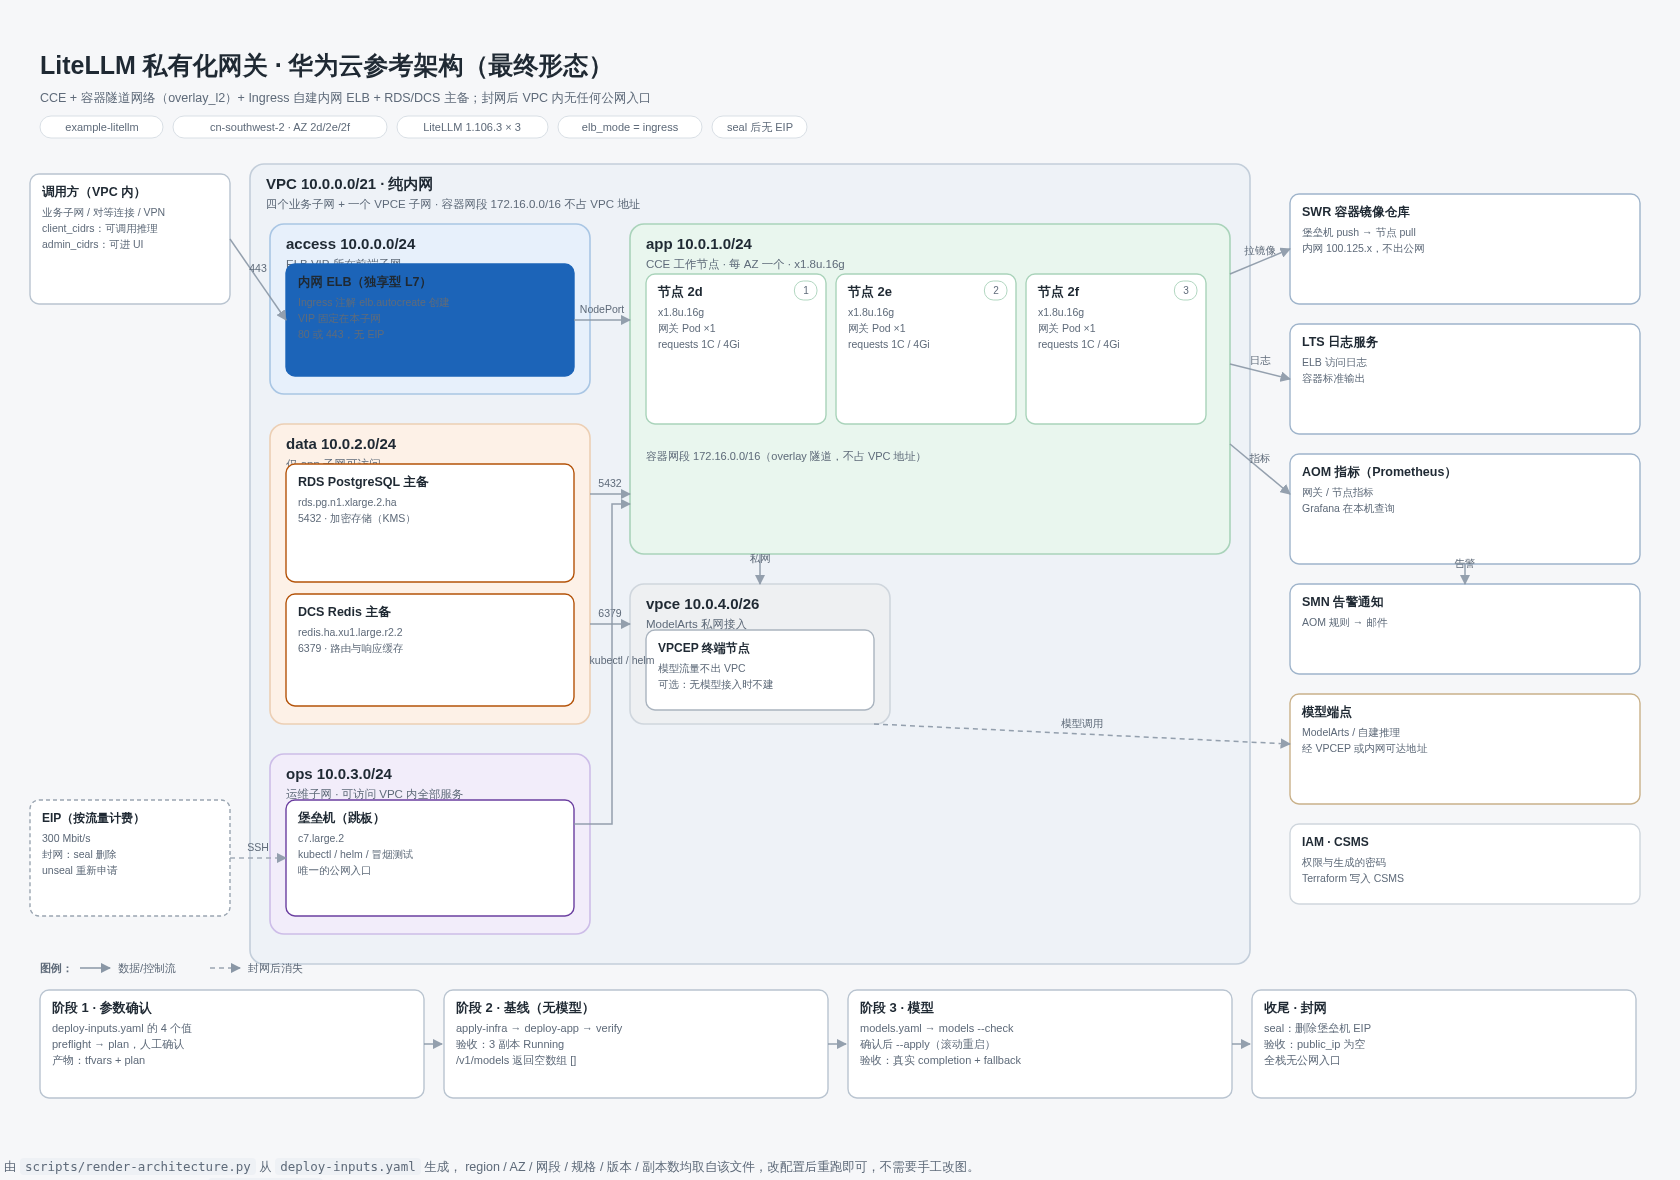
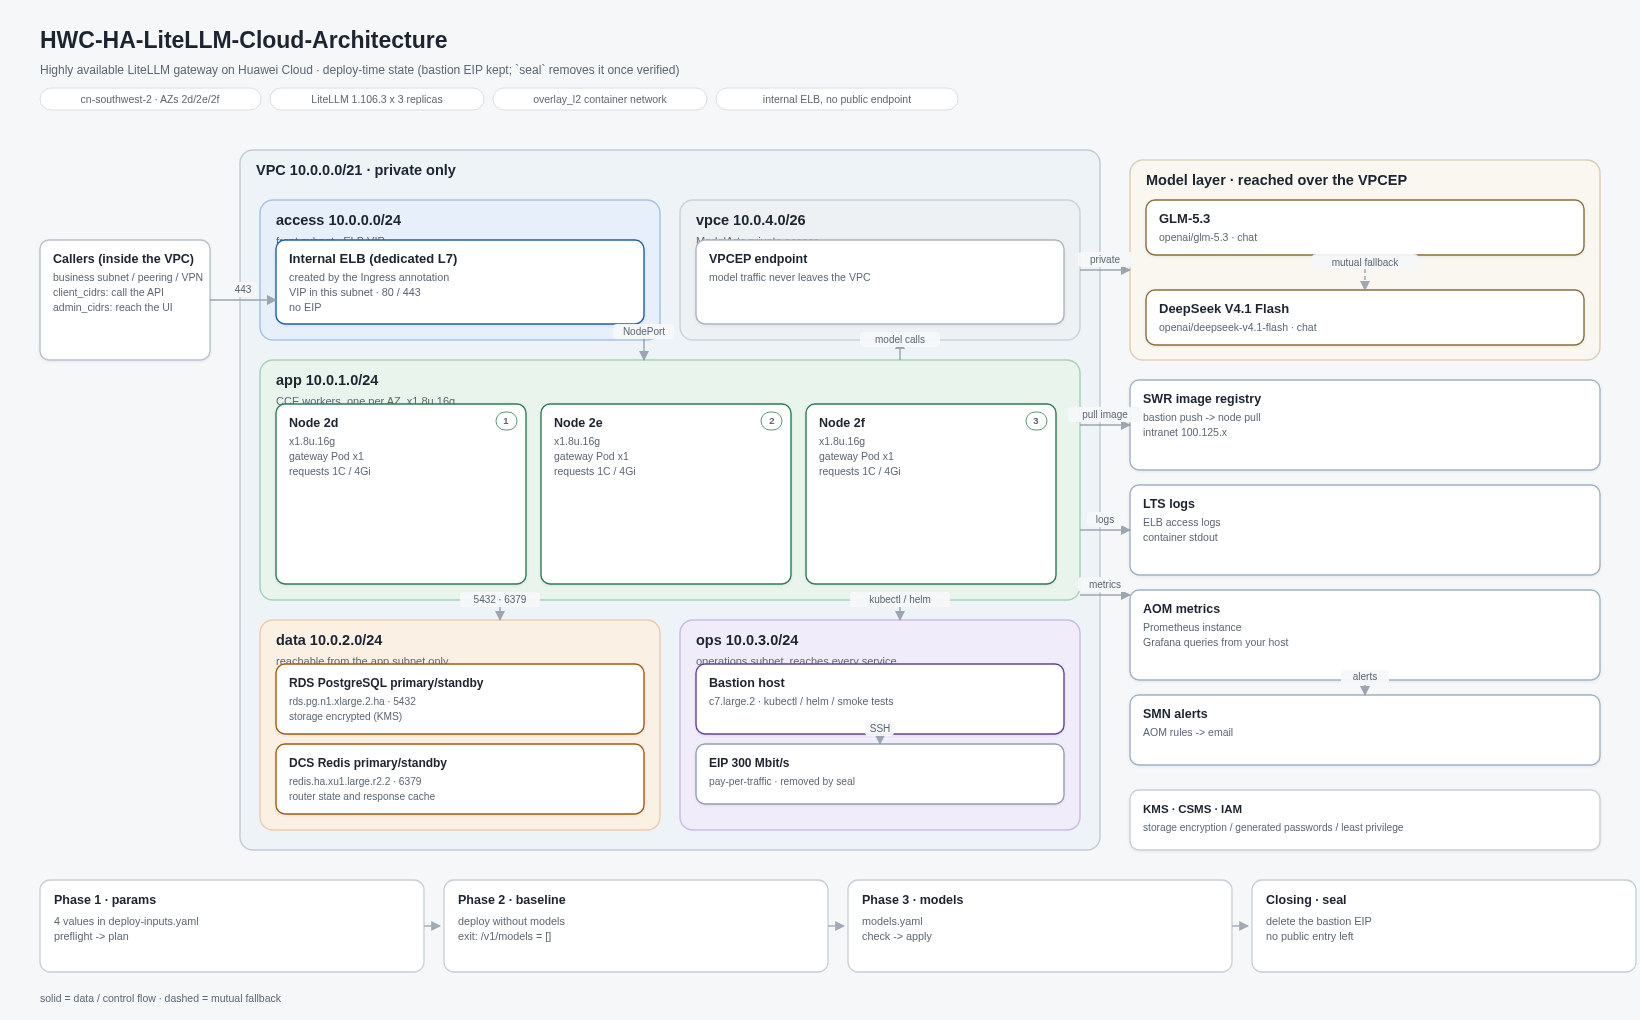
docs: redraw the architecture (en + zh + drawio) and audit every tracked file
Diagram, rebuilt for the final topology and the feedback:

- brand in the header: HWC-HA-LiteLLM-Cloud-Architecture
- deploy-time state: the bastion EIP is solid, with `seal` named as the step that
  removes it (was drawn already-sealed)
- the model layer is explicit: GLM-5.3 and DeepSeek V4.1 Flash with a dashed
  double arrow labelled "mutual fallback", reached through the VPCEP
- English `docs/architecture.png` for README.md, Chinese
  `docs/architecture.zh-CN.png` for README.zh-CN.md, and `docs/architecture.drawio`
  as the editable source (verified by exporting it with the drawio CLI)
- arrows only run in gutters; the generator asserts that no sibling boxes overlap
  and that every child sits inside its group before writing anything

`docs/repository-map.md` audits all 145 tracked files: what each one is, who calls
it, and what was removed (the old architecture.html, its generator, and pycache).
Verification is reproducible: 10/10 Terraform modules are referenced by an
example, `helm template` emits every kind the chart claims, and every script has a
caller outside the docs index.

`check-docs.py` now exempts `.zh-CN.` paths from the README parity rule: the
English README links the English diagram and the Chinese one links the Chinese
diagram, which is the intent, not a gap.

diff --git a/scripts/check-docs.py b/scripts/check-docs.py
@@ -149,8 +149,13 @@ def main() -> int:
 
     # The two READMEs must point at the same set of files, or one of them rots.
     if len(link_sets) == 2:
-        only_en = link_sets["README.md"] - link_sets["README.zh-CN.md"]
-        only_zh = link_sets["README.zh-CN.md"] - link_sets["README.md"]
+        # Language variants are expected to differ: README.md links the English
+        # diagram, README.zh-CN.md the Chinese one. Everything else must match.
+        def same_in_both(target: str) -> bool:
+            return not any(marker in target for marker in (".zh-CN.", "-zh-CN.", "_zh-CN."))
+
+        only_en = {t for t in link_sets["README.md"] - link_sets["README.zh-CN.md"] if same_in_both(t)}
+        only_zh = {t for t in link_sets["README.zh-CN.md"] - link_sets["README.md"] if same_in_both(t)}
         for target in sorted(only_en):
             errors.append(f"README.zh-CN.md: missing link to {target} (present in README.md)")
         for target in sorted(only_zh):

diff --git a/docs/repository-map.md b/docs/repository-map.md
@@ -1,0 +1,165 @@
+# Repository map — every file, and who uses it
+
+145 tracked files. Each row below answers "what is this for" and "what reads it".
+Two things were deleted during the audit (`docs/architecture.html` and its
+generator); everything else has a caller. Generated files are listed separately
+because they must never be committed.
+
+## Top level
+
+| File | What it is | Who uses it |
+|---|---|---|
+| `deploy-inputs.yaml` | Phases 1–2: infrastructure and gateway baseline. The only file an operator edits. | `preflight.py` (reads), `fill-inputs.sh` (writes 4 values), `inputs-table.py` (renders a table) |
+| `models.yaml` | Phase 3: the model list and fallback policy. | `preflight.py --with-models`, `models-diff.py`, `deploy.sh models` |
+| `version-presets.yaml` | The validated LiteLLM version, plus the upgrade gate boundaries. | `preflight.py` (`check_version`), `docs/upgrade-procedure.md` |
+| `AGENTS.md` | What an automated agent may and may not do. | every agent session; referenced by the skill |
+| `Makefile` | Thin wrapper over `deploy.sh` and the linters. | humans, CI |
+| `README.md` / `README.zh-CN.md` | Entry point, with the architecture image at the top. | humans, GitHub |
+| `CHANGELOG.md` | Why each release changed. | humans |
+| `CONTRIBUTING.md` | How to change the repo without breaking the deploy path. | contributors |
+| `SECURITY.md` | How to report a vulnerability. | contributors |
+| `LICENSE` | Apache-2.0. | GitHub |
+| `.gitignore` | Keeps state, tfvars, plans, venvs and the runtime home out of git. | git |
+| `.gitattributes` | Forces LF so a Windows checkout cannot break `#!/usr/bin/env bash`. | git |
+| `.editorconfig` | Indentation and final-newline rules. | editors |
+| `.pre-commit-config.yaml` | Runs `make lint` before a commit. | contributors |
+| `.terraform-version` | 1.17.0, the version CI and the docs assume. | tfenv users, CI |
+
+## `terraform/` — infrastructure
+
+Ten modules, all used by at least one example; nothing here is decorative.
+
+| Module | What it creates | Used by |
+|---|---|---|
+| `modules/maas-network` | VPC, five subnets, security groups, the bastion's egress rules | `examples/cce-ha` |
+| `modules/cce` | Cluster plus one node pool per AZ, GPSSD2 volumes | `examples/cce-ha` |
+| `modules/postgres` | RDS PostgreSQL primary/standby, KMS-encrypted | `examples/cce-ha` |
+| `modules/redis` | DCS Redis primary/standby | `examples/cce-ha` |
+| `modules/elb` | A Terraform-owned ELB (`elb_mode = standalone` only) | `examples/cce-ha` |
+| `modules/bastion` | The jump host, its EIP (optional) and the bootstrap script | `examples/cce-ha` |
+| `modules/observability` | LTS log group, AOM Prometheus instance, alarm rules | `examples/cce-ha` |
+| `modules/vpcep` | ModelArts private endpoint | `examples/cce-ha` |
+| `modules/vpn` | VPN gateway for on-prem callers (`vpn_enabled`) | `examples/cce-ha` |
+| `modules/naming` | `<project>-maas-<component>` name and tag convention | all of the above |
+
+| Example | What it is | Used by |
+|---|---|---|
+| `examples/cce-ha` | The production stack. Everything in the docs refers to this. | `deploy.sh`, `destroy.sh`, CI |
+| `examples/vm-single` | One ECS with local PostgreSQL/Redis, for evaluation only. | README (lab tier) |
+| `examples/*/terraform.tfvars.example` | Shape of the generated tfvars; `preflight` writes the real file. | humans (reading), `preflight` (not read) |
+| `examples/*/versions.tf`, `.terraform.lock.hcl` | Provider pinning. | `terraform init` |
+| `examples/cce-ha/backend.tf.example` | Remote state config to copy when you use OBS. | `docs/deployment.md` |
+
+## `charts/litellm/` — the application
+
+| File | What it renders | Notes |
+|---|---|---|
+| `templates/configmap.yaml` | The single LiteLLM config document: `model_list`, router, cache, general settings | `store_model_in_db: false`; empty model list renders `[]` |
+| `templates/deployment.yaml` | Gateway pods, probes, `preStop`, checksum annotation | rolls when the config changes |
+| `templates/migration-job.yaml` | Prisma migrations as a pre-install/pre-upgrade hook | tables are never created by hand |
+| `templates/service.yaml` | ClusterIP (ingress mode) or LoadBalancer (standalone) | |
+| `templates/ingress.yaml` | The `elb.autocreate` annotation that makes the internal ELB | immutable; `ingress-apply.sh` converges it |
+| `templates/pdb.yaml` | PodDisruptionBudget, keeps 2 of 3 replicas during drains | |
+| `templates/hpa.yaml` | Optional HPA, off by default (`autoscaling.enabled`) | not rendered in the default profile |
+| `templates/serviceaccount.yaml`, `_helpers.tpl`, `NOTES.txt` | Standard chart plumbing | |
+| `values.yaml` | Every knob, with the reasoning inline | read by `render-helm-values.py` |
+
+## `scripts/` — the deployment engine
+
+| Script | What it does | Called by |
+|---|---|---|
+| `deploy.sh` | The stage switch: preflight, plan, apply-infra, apply-stream, deploy-app, verify, ingress, verify-ui, models, seal, unseal | humans, CI, the skill |
+| `lib.sh` | Shared shell helpers: repo root, runtime home, credentials, terraform outputs | every other shell script |
+| `preflight.py` | Validates inputs, renders `terraform.tfvars` and the Helm values | `deploy.sh`, `models` stage |
+| `fill-inputs.sh` | Asks the four questions, writes only those lines | humans (phase 1) |
+| `inputs-table.py` | Renders the parameter table; `--actionable` shows only what is left | humans, agents |
+| `set-input.py` | Sets one value in `deploy-inputs.yaml` | `deploy.sh seal` / `unseal` |
+| `creds.sh` | AK/SK lifecycle: set, status, load, check, clear | humans, `bootstrap.sh`, `remote-deploy.sh` |
+| `apply-staged.sh` | Ordered apply (network → data → cluster → everything) | `deploy.sh apply-infra`, docs |
+| `apply-stream.py` | `terraform apply -json` rendered as live progress | `deploy.sh apply-stream` |
+| `resolve-az.py` | Picks real AZs for the region | `preflight.py` |
+| `resolve-cce-version.py` | Asks the CCE SDK which versions are still supported | `deploy.sh` before plan |
+| `check-cce-versions.py` | Compares the pin against the vendor bulletin | CI, `docs/huaweicloud-regions.md` |
+| `render-helm-values.py` | Merges rendered values with runtime ELB/Ingress wiring | `deploy.sh`, `remote-deploy.sh` |
+| `remote-deploy.sh` | Bundles values + chart + secrets and runs Helm on the bastion | `deploy.sh --remote` |
+| `ingress-apply.sh` | Converges the immutable Ingress annotation, `--check` reports drift | `deploy.sh ingress` |
+| `verify-ui.sh` | Fetches `/ui/`, screenshots it through the bastion | `deploy.sh verify-ui` |
+| `smoke-test.sh` | Readiness, model list, one completion | `deploy.sh verify`, `remote-deploy.sh` |
+| `migrate.sh` | Re-runs the migration Job when a release died after the hook | `docs/troubleshooting.md` |
+| `mirror-image.sh` | Pull upstream, push to SWR, verify the manifest | bastion, `docs/deployment.md` |
+| `push-image.sh` | Network/auth/disk preflight, push, manifest check | `mirror-image.sh` |
+| `preflight-network.sh` | Checks DNS/TCP/TLS to a registry before a 419 MB pull | `push-image.sh` |
+| `models-diff.py` | Added / removed / changed models and fallbacks; flags a rename | `deploy.sh models --check` |
+| `destroy.sh` | Uninstalls the release, then destroys; refuses without `CONFIRM=yes` | humans |
+| `handoff.py` | Customer-facing form, plus scrub/check of local artifacts | `deploy.sh`, `destroy.sh` |
+| `audit-secrets.py` | Finds credential-shaped files and tracked secrets | `make audit`, CI |
+| `check-docs.py` | Every file documented, every link resolves, README parity | `make lint` |
+| `check-monitoring.py` | Dashboard JSON and alert rules stay valid | `make lint` |
+| `check-permissions.sh` | Lists the IAM actions each stage needs | `docs/permissions.md` |
+| `install-tools.sh` | Installs missing terraform/helm/kubectl/jq/python3 | humans, phase 0 |
+| `bootstrap.sh` | Prints tool versions and credential state | humans, `install-tools.sh` |
+| `lint.sh` | shellcheck + terraform fmt/validate + helm lint + docs + monitoring | `make lint`, CI |
+
+## `docs/` — the documentation set
+
+| Document | Question it answers |
+|---|---|
+| `index.md` | Which document answers which question; the file map |
+| `repository-map.md` | This page: every file and its caller |
+| `architecture.md` | Components, failure domains, request path |
+| `architecture.png` / `.zh-CN.png` / `.drawio` | The picture (deploy-time state), editable in diagrams.net |
+| `deployment.md` | Step-by-step deploy, what each stage proves |
+| `phase1-inputs.md` | The four values you must decide, and why |
+| `prompts.md` | Paste-ready prompt per phase |
+| `inputs-guide.md` | Field-by-field reference for `deploy-inputs.yaml` |
+| `credentials.md` | Four ways to supply AK/SK, and how to prove them gone |
+| `security.md` | Secrets, network, TLS, IAM, who may call the gateway |
+| `permissions.md` | Required IAM roles per stage |
+| `sa-checklist.md` | Planning checklist before stage 1 |
+| `operations.md` | Scaling, upgrades, rollback, backup, key rotation |
+| `upgrade-procedure.md` | What a version bump requires before `ACK_UPGRADE=1` |
+| `troubleshooting.md` | Symptom → cause → fix |
+| `deployment-optimizations.md` | Field notes from the real deployments |
+| `manual-deployment.md` | Console click-through when Terraform is not allowed |
+| `modelarts-intranet.md` | Calling ModelArts over a private endpoint |
+| `huaweicloud-regions.md` | Regions, endpoints, AZ quirks, flavour codes |
+| `cost.md` | Resource list and cost levers |
+
+## Everything else
+
+| Path | What it is | Used by |
+|---|---|---|
+| `monitoring/alerting-rules.yaml` | AOM alarm rules (13 metrics) | `check-monitoring.py`, `docs/operations.md` |
+| `monitoring/grafana-dashboard.json` | Dashboard for a local Grafana | `check-monitoring.py`, `monitoring/README.md` |
+| `monitoring/README.md` | How to wire AOM/LTS into Grafana | humans |
+| `secrets/hw.env.example` | Shape of the AK/SK file | `creds.sh` |
+| `secrets/app.env.example` | Shape of the provider-key file | `deploy-app.sh` (env-file) |
+| `secrets/README.md` | Where secrets live, four supply paths | humans, `docs/credentials.md` |
+| `skills/litellm-huaweicloud-deploy/SKILL.md` | The agent-facing flow and decisions | agent sessions; symlinked into `~/.hermes/skills` |
+| `.github/workflows/ci.yml` | terraform fmt/validate, helm lint, shellcheck, docs, monitoring | GitHub Actions |
+
+## How this was verified
+
+```bash
+git ls-files | wc -l                       # 145 tracked files
+for m in terraform/modules/*/; do ...      # 10/10 modules referenced by an example
+helm template t charts/litellm ...         # ConfigMap, Deployment, Ingress, Job, PDB, Service, SA
+grep -rl '<script name>' .                 # every script has a caller outside docs/index.md
+```
+
+Results: no tracked file is unreferenced. Three things were removed because they
+were not: `docs/architecture.html` and `scripts/draw-architecture-html.py` (the
+old picture and its generator, replaced by the PNG/drawio pair) and
+`scripts/__pycache__` (build debris, now ignored).
+
+## Generated — never commit
+
+| Path | Produced by |
+|---|---|
+| `~/.litellm-deploy/out/*` | `preflight.py` (tfvars, helm values, plan, preflight.json) |
+| `~/.litellm-deploy/state/*` | staged plans, bastion key, model snapshots, handoff backups |
+| `terraform/examples/*/terraform.tfvars` | `preflight.py` |
+| `terraform/examples/*/terraform.tfstate*` | Terraform (contains generated passwords) |
+| `terraform/examples/*/.terraform/` | `terraform init` |
+| `terraform/examples/*/tfplan` | `terraform plan` |
+| `.venv-sdk/` | optional local SDK venv |

diff --git a/README.zh-CN.md b/README.zh-CN.md
@@ -7,10 +7,12 @@
 ![terraform](https://img.shields.io/badge/terraform-%3E%3D1.6-623CE4)
 ![litellm](https://img.shields.io/badge/litellm-v1.106.3-1f6feb)
 
-![参考架构](docs/architecture.png)
+![参考架构](docs/architecture.zh-CN.png)
 
-<sub>全栈私有：ELB 是内网的，CCE 没有公网端点，堡垒机的 EIP 是唯一的公网地址——部署验证完成后
-由 <code>deploy.sh seal</code> 删除。图中的规格、网段、版本都取自 <code>deploy-inputs.yaml</code>。</sub>
+<sub>部署中状态：堡垒机的 EIP 是唯一的公网地址，验证完成后由 <code>deploy.sh seal</code> 删除；
+其余全为私有——内网 ELB、CCE 无公网端点、模型经 VPCEP 私网访问。可编辑源文件：
+<a href="docs/architecture.drawio">docs/architecture.drawio</a>（diagrams.net）。图中规格、网段、
+版本取自 <code>deploy-inputs.yaml</code>。</sub>
 
 ## 这是什么
 
@@ -320,7 +322,7 @@ terraform -chdir=terraform/examples/cce-ha output -json app_env | jq -r .LITELLM
 |---|---|
 | [docs/index.md](docs/index.md) | **先看这篇**：哪个问题看哪篇文档，以及仓库里每个文件的职责 |
 | [docs/architecture.md](docs/architecture.md) | 组件、故障域、请求链路、升级流程 |
-| [docs/architecture.html](docs/architecture.html) | 可视化架构：子网、请求链路、ELB 归属、坑位索引（静态产物） |
+| [docs/architecture.png](docs/architecture.png) | 可视化架构（部署中状态），另有 [drawio 可编辑版](docs/architecture.drawio) |
 | [docs/deployment.md](docs/deployment.md) | 前置条件、IAM、凭据、逐步部署 |
 | [docs/operations.md](docs/operations.md) | 扩缩容、升级、回滚、备份恢复、密钥轮换 |
 | [docs/security.md](docs/security.md) | 密钥、网络、TLS、镜像验签、IAM、谁可以调用 |

diff --git a/README.md b/README.md
@@ -10,10 +10,11 @@ highly available OpenAI-compatible AI gateway on Huawei Cloud.
 
 ![Reference architecture](docs/architecture.png)
 
-<sub>Everything is private: the ELB is internal, CCE has no public endpoint, and
-the bastion's EIP is the only public address - removed by `deploy.sh seal` once
-the deployment is verified. Box labels are in Chinese; sizes, CIDRs and version
-come from `deploy-inputs.yaml`.</sub>
+<sub>Deploy-time state: the bastion's EIP is the only public address and
+`deploy.sh seal` removes it once the deployment is verified. Everything else is
+private - internal ELB, no CCE public endpoint, models reached over the VPCEP.
+Editable source: <a href="docs/architecture.drawio">docs/architecture.drawio</a>
+(diagrams.net); sizes, CIDRs and version come from `deploy-inputs.yaml`.</sub>
 
 ---
 
@@ -398,7 +399,7 @@ The first `terraform plan` in your account is still the real acceptance test.
 |---|---|
 | [docs/index.md](docs/index.md) | **Start here**: which document answers which question, and what every file in the repository is for |
 | [docs/architecture.md](docs/architecture.md) | Components, failure domains, request path, upgrade flow |
-| [docs/architecture.html](docs/architecture.html) | Rendered topology: subnets, request path, ELB ownership, known pitfalls (static artifact) |
+| [docs/architecture.png](docs/architecture.png) | Rendered topology (deploy-time state), also as [drawio](docs/architecture.drawio) |
 | [docs/deployment.md](docs/deployment.md) | Prerequisites, IAM, credentials, step-by-step deploy |
 | [docs/operations.md](docs/operations.md) | Scaling, upgrades, rollback, backup/restore, key rotation |
 | [docs/security.md](docs/security.md) | Secrets, network, TLS, image verification, IAM, who calls the gateway |

diff --git a/docs/index.md b/docs/index.md
@@ -137,8 +137,9 @@ script, a Terraform module or a document is missing from it.
 | Document | Contents |
 |---|---|
 | `index.md` | This map: what to read when, and what every file is for. |
+| `docs/repository-map.md` | Every tracked file, what it is for and who calls it; what was removed and why. |
 | `docs/architecture.md` | Components, failure domains, request path, network segments, upgrade flow. |
-| `architecture.html` / `architecture.png` | Rendered topology (static artifact, embedded in both READMEs). The generator is a one-off kept outside the repository - see `docs/architecture.md`. |
+| `architecture.png` / `architecture.zh-CN.png` / `architecture.drawio` | Rendered topology, deploy-time state, embedded in both READMEs; the `.drawio` is the editable source (diagrams.net). The generator is a one-off kept outside the repository - see `docs/architecture.md`. |
 | `docs/deployment.md` | Prerequisites, IAM, credentials, step-by-step deploy, what each stage proves. |
 | `docs/operations.md` | Scaling, upgrades, rollback, backup/restore, key rotation, day-2 checks. |
 | `docs/security.md` | Secrets, network, TLS, image verification, IAM, who may call the gateway. |

diff --git a/docs/architecture.md b/docs/architecture.md
@@ -2,8 +2,10 @@
 
 ## Diagram
 
-`architecture.html` and `architecture.png` are the rendered topology, embedded at
-the top of both READMEs. They are **static artifacts**: the generator was a
+`architecture.png` (English), `architecture.zh-CN.png` (Chinese) and
+`architecture.drawio` (editable, diagrams.net) are the topology, embedded at the
+top of both READMEs. They show the **deploy-time** state: the bastion EIP is
+present and `deploy.sh seal` removes it afterwards. They are **static artifacts**: the generator was a
 one-off and is deliberately not part of the repository, so the picture cannot
 silently drift when the code moves - a mismatch is visible and gets redrawn.
 
